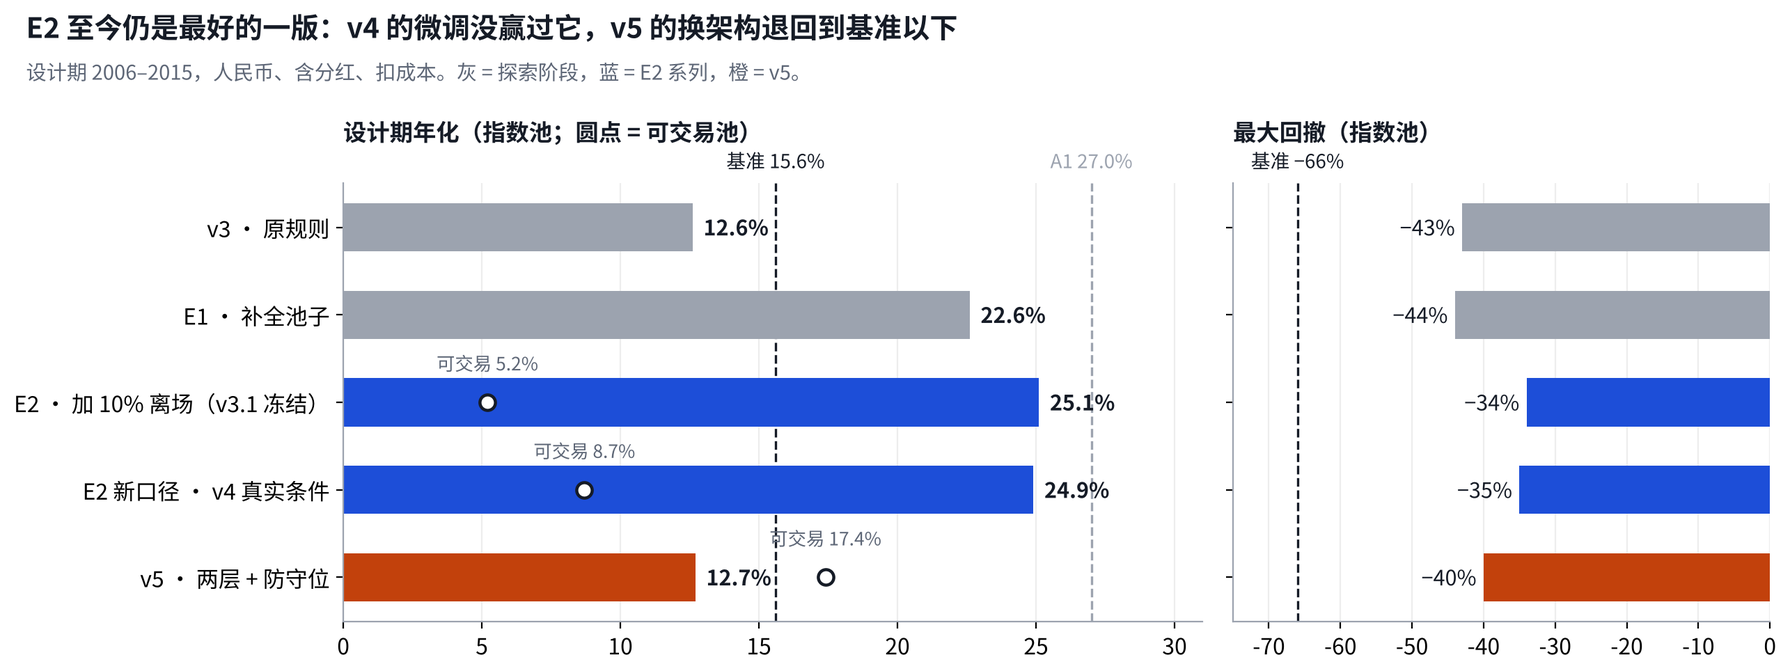
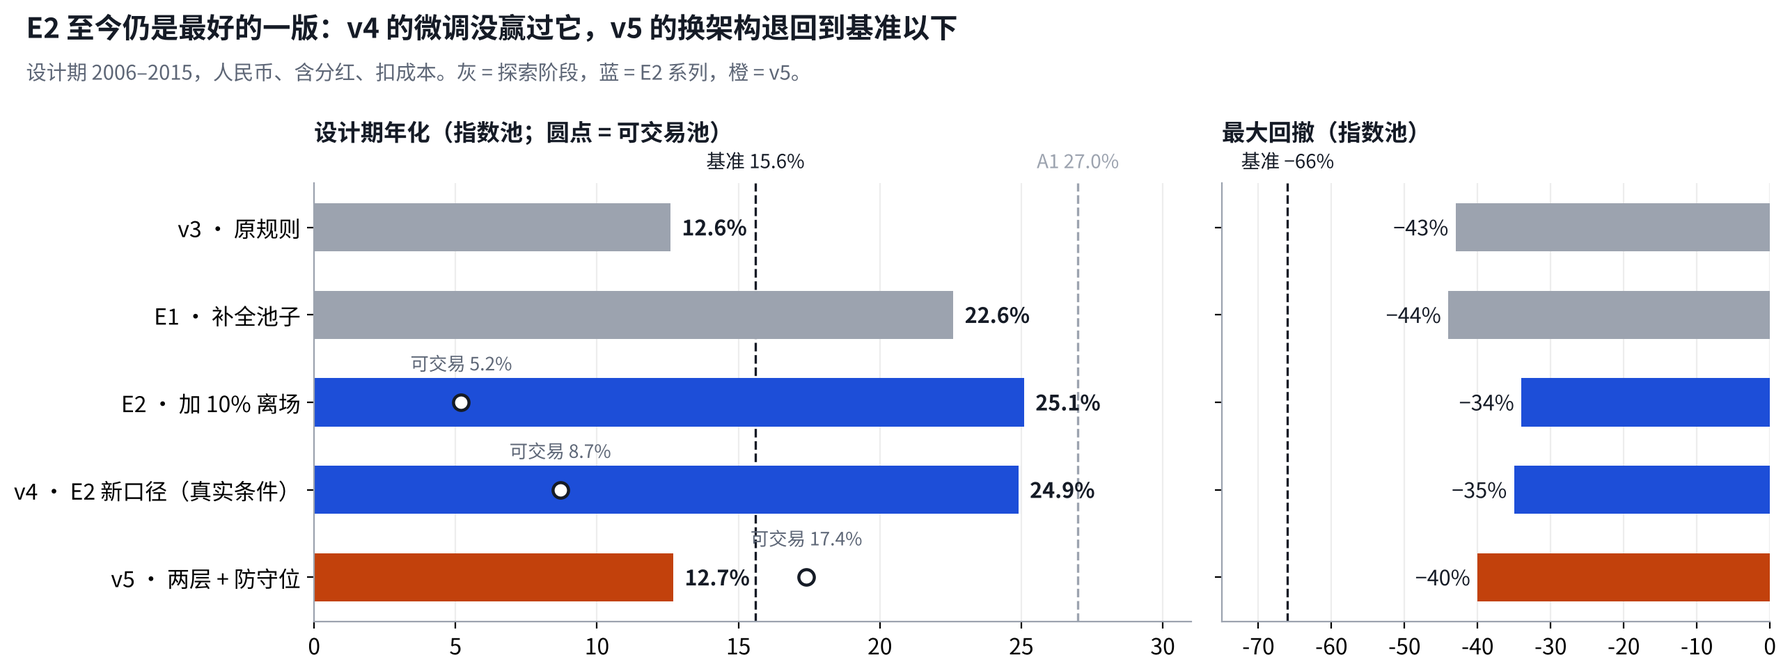
v5 备忘第 10.3 版：四处结构硬伤归因、风险调整后对随机、跑前五问；看板版本表加策略详情、v4 摘要图
- results/v5/diag/memo/flaws.py：把 v5 的每类最强放回全局排名，描述性归因（设计期、指数池，不新增策略）
- m7：按类别分钱 vs 按强弱分钱；b9：v4 换真实条件 + T1–T4 过关格
- 看板第 2 节：表行与图一一对应，E2 规则并入 v3 → E2 折叠

Claude-Session: https://claude.ai/code/session_01PmXaEwvnhMrSzwWPeiEpbL

diff --git a/results/v5/diag/memo/flaws.py b/results/v5/diag/memo/flaws.py
@@ -1,0 +1,88 @@
+"""v5 设计硬伤的描述性诊断（只用设计期 2006–2015 的指数池，不新增策略，不算 2016 年以后的收益）。
+
+每个调仓决策日、每个回看期，把 v5 的“每类最强”放回全局排名里看：
+1. 开着几个风险大类（k），防守位打开过几次；
+2. v5 的每类最强在全部跑赢现金的容器里排第几，有多少仓位落在全局前 5 名以外；
+3. 被选中以后下一个月实际涨了多少（按全局排名分档），检验“每类最强”是不是真的强。
+用法：python results/v5/diag/memo/flaws.py results/v5/diag/memo/flaws
+"""
+import sys, pathlib
+ROOT = pathlib.Path(__file__).resolve().parents[4]; sys.path.insert(0, str(ROOT))
+import pandas as pd, numpy as np
+from src.v3.engine.spec import load_spec
+from src.v3.engine.score import lookback_panel
+from src.v3.engine.sessions import decision_dates
+from src.v4.r5.design import Markets
+from src.v5.campaign import classes_for, class_map
+from src.v5.engine.allocate import sleeves_on, group_weights, _winners
+from src.v5.engine.classes import RISK_CLASSES, DEFENSIVE_CLASSES
+
+out = pathlib.Path(sys.argv[1]); out.mkdir(parents=True, exist_ok=True)
+spec = load_spec(); markets = Markets(spec)
+m = markets.get('index', t4=False, allow_substitute=True)
+cls = classes_for(list(m.names), m.cash_id, class_map())
+cash = m.cash_id
+names = [*list(m.names), cash]
+ret = m.signal
+logret = np.log1p(ret.where(ret > -1).fillna(0.0))
+fwd = np.expm1(logret[::-1].rolling(21, min_periods=1).sum()[::-1].shift(-1))  # 下一个 21 个交易日
+fwd_x = fwd.sub(fwd[cash], axis=0)  # 相对现金
+
+rows, picks = [], []
+for L in spec.lookbacks:
+    p = lookback_panel(ret, cash, L)
+    for day in decision_dates(pd.DatetimeIndex(m.dates), 'month'):
+        t = pd.Timestamp(day).normalize()
+        if t < pd.Timestamp('2006-01-01') or t > pd.Timestamp('2015-12-31') or t not in p.score.index:
+            continue
+        sl = sleeves_on(p, t, names, cls, cash, None)
+        elig = sorted([s for s in sl if s.participates and s.beats_cash and np.isfinite(s.score) or (s.participates and s.beats_cash and np.isinf(s.score))],
+                      key=lambda s: (-s.score, s.container_id))
+        rank = {s.container_id: i + 1 for i, s in enumerate(elig)}
+        risk = _winners(sl, RISK_CLASSES)
+        k = sum(v is not None for v in risk.values())
+        w = group_weights(sl, cash_id=cash)
+        top = elig[0].score if elig else np.nan
+        rows.append(dict(date=t, L=L, k=k, n_elig=len(elig),
+                         cash=w.get(cash, 0.0),
+                         defense=sum(v for c, v in w.items() if c != cash and cls.get(c) in DEFENSIVE_CLASSES)))
+        for c, v in w.items():
+            if c == cash or v == 0:
+                continue
+            picks.append(dict(date=t, L=L, id=c, cls=cls[c], w=v, rank=rank.get(c, np.nan),
+                              rel=(next(s.score for s in sl if s.container_id == c) / top) if top and np.isfinite(top) else np.nan,
+                              fwd=fwd_x.at[t, c] if t in fwd_x.index else np.nan))
+        # E2 式对照：全局前 5、每只 1/5、不足拿现金（只做描述，不是 B0 的完整执行）
+        for s in elig[:5]:
+            picks.append(dict(date=t, L=L, id=s.container_id, cls=cls[s.container_id], w=0.2, rank=rank[s.container_id],
+                              rel=s.score / top, fwd=fwd_x.at[t, s.container_id], arm='E2top5'))
+
+g = pd.DataFrame(rows); pk = pd.DataFrame(picks); pk['arm'] = pk['arm'].fillna('v5')
+g.to_csv(out / 'groups.csv', index=False); pk.to_csv(out / 'picks.csv', index=False)
+
+v5 = pk[pk.arm == 'v5']
+risk5 = v5[v5.cls.isin(RISK_CLASSES)]
+summ = {}
+summ['k 分布（组占比）'] = g.k.value_counts(normalize=True).sort_index().round(3).to_dict()
+summ['k=0 的组占比'] = round((g.k == 0).mean(), 3)
+summ['防守位平均仓位'] = round(g.defense.mean(), 3)
+summ['现金平均仓位'] = round(g.cash.mean(), 3)
+summ['v5 风险仓位里落在全局前5以外的占比'] = round(risk5.loc[risk5['rank'] > 5, 'w'].sum() / risk5.w.sum(), 3)
+summ['v5 风险仓位里落在全局前3以外的占比'] = round(risk5.loc[risk5['rank'] > 3, 'w'].sum() / risk5.w.sum(), 3)
+summ['v5 风险持仓得分/当日最高分（加权中位）'] = round(np.average(risk5.rel.clip(-5, 5), weights=risk5.w), 3)
+bucket = pd.cut(risk5['rank'], [0, 5, 10, 1000], labels=['全局前5', '第6–10', '第11名以后'])
+summ['v5 各档仓位占比'] = risk5.groupby(bucket, observed=False).w.sum().div(risk5.w.sum()).round(3).to_dict()
+summ['v5 各档下月超额（月均，%）'] = (risk5.groupby(bucket, observed=False).apply(lambda d: np.average(d.fwd, weights=d.w) * 100, include_groups=False).round(2).to_dict())
+e2 = pk[pk.arm == 'E2top5']
+summ['E2 前5 下月超额（月均，%）'] = round(e2.fwd.mean() * 100, 2)
+summ['v5 风险持仓下月超额（加权，%）'] = round(np.average(risk5.fwd, weights=risk5.w) * 100, 2)
+by_cls = risk5.groupby('cls').apply(lambda d: pd.Series({
+    '开着的组占比': d[['date', 'L']].drop_duplicates().shape[0] / g.shape[0],
+    '平均仓位(开着时)': d.w.mean(),
+    '全局排名中位': d['rank'].median(),
+    '落在前5以外的比例': (d['rank'] > 5).mean(),
+    '下月超额%': d.fwd.mean() * 100}), include_groups=False).round(3)
+by_cls.to_csv(out / 'by-class.csv')
+import json
+(out / 'summary.json').write_text(json.dumps(summ, ensure_ascii=False, indent=1, default=str))
+print(json.dumps(summ, ensure_ascii=False, indent=1, default=str)); print(by_cls.to_string())

diff --git a/results/v5/diag/board/v4_fold.py b/results/v5/diag/board/v4_fold.py
@@ -1,0 +1,46 @@
+"""Owner 看板 v4 摘要图：v4 做了两件事——换成真实交易条件（E2 → E2 新口径），在它上面试四个各改一处的微调（都没过）。
+数字来自已登记的 results/v4/r5/candidate-gate.csv（指数池）与 v4 体检报告；只读设计期。
+用法：python results/v5/diag/board/v4_fold.py docs/assets/owner-board/b9-v4.png
+"""
+import sys, pathlib
+ROOT = pathlib.Path(__file__).resolve().parents[4]
+import pandas as pd, numpy as np
+import matplotlib; matplotlib.use('Agg')
+import matplotlib.pyplot as plt
+from matplotlib.patches import FancyBboxPatch
+plt.rcParams.update({'font.family': ['Noto Sans CJK SC'], 'axes.unicode_minus': False, 'font.size': 11.5})
+INK, MUTED, GOOD, BAD, BLUE = '#151b26', '#5d6676', '#15803d', '#c2410c', '#1d4ed8'
+g = pd.read_csv(ROOT / 'results/v4/r5/candidate-gate.csv'); g = g[g.pool == 'index'].set_index('arm')
+TARGET = {'T1': ('pp_rebound', '反弹'), 'T2': ('pp_correction', '回调'), 'T3': ('pp_bull', '牛市'), 'T4': ('pp_bull', '牛市')}
+NAME = {'T1': 'T1 转折点换挡', 'T2': 'T2 按市场状态分配速度', 'T3': 'T3 空位当天补', 'T4': 'T4 加美股行业、港股分类'}
+fig = plt.figure(figsize=(13, 5.5))
+ax = fig.add_axes([.04, .08, .30, .66])
+bars = [('E2（v3.1 冻结）\n理想条件', 25.1, '#9ca3af'), ('E2 新口径\n真实条件 · 指数池', 24.9, BLUE), ('E2 新口径\n真实条件 · 可交易池', 8.7, BLUE)]
+for i, (n, v, c) in enumerate(bars):
+    ax.bar(i, v, color=c, width=.62, alpha=1 if i < 2 else .45, zorder=2)
+    ax.text(i, v + .6, f'{v:.1f}%', ha='center', fontsize=12, weight='bold', color=INK)
+ax.axhline(15.6, color=INK, ls='--', lw=1.2); ax.text(2.45, 15.9, '基准 15.6%', ha='right', va='bottom', fontsize=10, color=INK)
+ax.set_xticks(range(3), [b[0] for b in bars], fontsize=10); ax.set_ylim(0, 30); ax.set_ylabel('设计期年化 %', color=MUTED)
+for s in ('top', 'right'): ax.spines[s].set_visible(False)
+ax.grid(axis='y', alpha=.22); ax.set_axisbelow(True)
+ax.set_title('① 换成真实交易条件', loc='left', fontsize=12.5, weight='bold', color=INK, pad=10)
+# 右：四个微调的过关格
+bx = fig.add_axes([.40, .08, .58, .66]); bx.axis('off'); bx.set_xlim(0, 10); bx.set_ylim(0, 5.4)
+bx.set_title('② 在 E2 新口径上各改一处：三条都要过，没有一个过', loc='left', fontsize=12.5, weight='bold', color=INK, pad=10)
+cols = [(3.0, '前五年超额'), (4.75, '后五年超额'), (6.5, '瞄准的行情'), (8.55, '结果')]
+for x, t in cols: bx.text(x, 5.05, t, ha='center', fontsize=10.5, color=MUTED, weight='bold')
+b0 = g.loc['B0']
+for r, t in enumerate(['T1', 'T2', 'T3', 'T4']):
+    y = 4.2 - r * 1.05; row = g.loc[t]
+    bx.text(0.0, y, NAME[t], va='center', fontsize=11, color=INK, weight='bold')
+    d1 = (row.ann_excess_s1 - b0.ann_excess_s1) * 100; d2 = (row.ann_excess_s2 - b0.ann_excess_s2) * 100
+    col, lab = TARGET[t]; d3 = row[col] - b0[col]
+    for x, v, ok, txt in ((3.0, d1, d1 > 0, f'{d1:+.1f}'), (4.75, d2, d2 > 0, f'{d2:+.1f}'), (6.5, d3, d3 > 0, f'{lab} {d3:+.1f}')):
+        bx.add_patch(FancyBboxPatch((x - .78, y - .34), 1.56, .68, boxstyle='round,pad=0.02,rounding_size=0.12',
+                                    fc='#e8f5ed' if ok else '#fdeee6', ec='none'))
+        bx.text(x, y, txt.replace('-', '−'), ha='center', va='center', fontsize=11, weight='bold', color=GOOD if ok else BAD)
+    bx.text(8.55, y, '没过', ha='center', va='center', fontsize=11.5, weight='bold', color=BAD)
+bx.text(0, -.2, '格子是相对 E2 新口径的变化（百分点）：超额是每年多赚几个点；瞄准的行情是该行情所有月份相对基准的超额之和。绿 = 变好，橙 = 变差。', fontsize=9.5, color=MUTED)
+fig.text(.04, .99, 'v4 做了两件事：换成真实条件后，E2 在能排名的池子里几乎不变、在当年真能买到的池子里只剩 8.7%；四个微调都没过关', fontsize=14, weight='bold', color=INK, va='top')
+fig.text(.04, .915, '设计期 2006–2015，人民币、含分红、扣成本。v4 最终版 = E2 新口径（一处都没改）。', fontsize=10.5, color=MUTED, va='top')
+fig.savefig(sys.argv[1], dpi=200, bbox_inches='tight', facecolor='white')

diff --git a/results/v5/diag/memo/charts.py b/results/v5/diag/memo/charts.py
@@ -142,3 +142,32 @@ if RB.exists():
         title(fig, f'随机满仓也有约 {med:.0f}% 的年化，但回撤都超过 −55%；E2 收益更高、回撤少一半',
               '指数池 2006–2015。随机：每月末从当时有数据的风险容器里随机挑 5 只、等权、满仓，不扣成本（对随机更有利）。')
         fig.tight_layout(); fig.savefig(OUT / 'm6-random.png', dpi=200, bbox_inches='tight', facecolor='white'); plt.close(fig)
+
+# m7 设计硬伤：钱按类别分给了谁，它们下个月赚了多少（flaws.py 的输出）
+W = pd.read_csv(D / 'v5/diag/memo/class-weights.csv', index_col=0, parse_dates=True).loc['2006':'2015']
+PK = pd.read_csv(D / 'v5/diag/memo/flaws/picks.csv').dropna(subset=['fwd'])
+cats = [('A 股', ['A股']), ('港股', ['港股']), ('美股', ['美股']), ('国债、黄金', ['国债', '黄金']), ('现金', ['现金'])]
+fig, (ax, bx) = plt.subplots(1, 2, figsize=(13, 4.6), gridspec_kw={'width_ratios': [1.15, 1]})
+y = np.arange(len(cats))
+for off, arm, col in ((-.19, 'E2', COL['E2 新口径']), (.19, 'v5', COL['v5 最终版'])):
+    v = [sum(W[f'{arm}:{c}'].mean() for c in cs) * 100 for _, cs in cats]
+    ax.barh(y + off, v, height=.36, color=col, zorder=2, label='E2 新口径' if arm == 'E2' else 'v5 最终版')
+    for yy, vv in zip(y + off, v): ax.text(vv + .8, yy, f'{vv:.0f}%', va='center', fontsize=10.5, color=col, weight='bold')
+ax.set_yticks(y, [c for c, _ in cats]); ax.invert_yaxis(); ax.set_xlim(0, 60)
+ax.set_title('十年平均仓位（指数池）', loc='left', fontsize=12.5, weight='bold', color=INK)
+ax.legend(frameon=False, loc='lower right', fontsize=10.5)
+r5 = PK[(PK.arm == 'v5') & PK.cls.isin(['A股', '港股', '美股', '商品', '其他海外'])]
+wav = lambda d: np.average(d.fwd, weights=d.w) * 100
+bars = [('E2：每天排名表的前 5 名', PK[PK.arm == 'E2top5'].fwd.mean() * 100, COL['E2 新口径']),
+        ('v5：全部风险持仓', wav(r5), COL['v5 最终版']),
+        ('　其中 A 股那份', wav(r5[r5.cls == 'A股']), '#e8916a'),
+        ('　其中美股那份', wav(r5[r5.cls == '美股']), '#e8916a'),
+        ('　其中港股那份', wav(r5[r5.cls == '港股']), '#e8916a')]
+yb = np.arange(len(bars))
+bx.barh(yb, [b[1] for b in bars], color=[b[2] for b in bars], height=.6, zorder=2)
+for yy, (_, v, c) in zip(yb, bars): bx.text(v + .06, yy, f'{v:.1f}%', va='center', fontsize=10.5, weight='bold', color=INK)
+bx.set_yticks(yb, [b[0] for b in bars]); bx.invert_yaxis(); bx.set_xlim(0, 3.8)
+bx.set_title('被选中后，下个月比现金多赚（月均）', loc='left', fontsize=12.5, weight='bold', color=INK)
+title(fig, 'v5 按“类别”分钱，不按“强弱”分钱：港股、美股拿走一半仓位，下个月只比现金多赚 0.3–0.6%',
+      '设计期 2006–2015，指数池，月度决策日、四个回看期合并统计。右图是挑选当天之后 21 个交易日的收益减现金，不扣成本，只作归因。')
+fig.tight_layout(); fig.savefig(OUT / 'm7-flaws.png', dpi=200, bbox_inches='tight', facecolor='white'); plt.close(fig)

diff --git a/results/v5/diag/board/versions.py b/results/v5/diag/board/versions.py
@@ -11,8 +11,8 @@ INK, MUTED = '#151b26', '#5d6676'
 ROWS = [  # 名称, 指数池年化, 指数池回撤, 可交易池年化, 颜色
     ('v3 · 原规则', 12.6, -43, None, '#9ca3af'),
     ('E1 · 补全池子', 22.6, -44, None, '#9ca3af'),
-    ('E2 · 加 10% 离场（v3.1 冻结）', 25.1, -34, 5.2, '#1d4ed8'),
-    ('E2 新口径 · v4 真实条件', 24.9, -35, 8.7, '#1d4ed8'),
+    ('E2 · 加 10% 离场', 25.1, -34, 5.2, '#1d4ed8'),
+    ('v4 · E2 新口径（真实条件）', 24.9, -35, 8.7, '#1d4ed8'),
     ('v5 · 两层 + 防守位', 12.7, -40, 17.4, '#c2410c'),
 ]
 fig, axs = plt.subplots(1, 2, figsize=(13, 4.2), gridspec_kw={'width_ratios': [1.6, 1]}, sharey=True)

diff --git a/docs/owner/v5-research-memo.md b/docs/owner/v5-research-memo.md
@@ -4,7 +4,7 @@
 
 - Project: ETF_Rotation_Quant
 - Document type: research
-- Status: active（第 10.2 版；设计期已跑完，v5 未入围；待 Reviewer 复算、别的市场检验）
+- Status: active（第 10.3 版；设计期已跑完，v5 未入围；待 Reviewer 复算、别的市场检验）
 - Owner: L. Loric
 - Maintainer: Orchestrator
 - Date: 2026-11-01
@@ -17,7 +17,7 @@
 
 | 现状 | 结论 | 需要你 |
 | --- | --- | --- |
-| **设计期跑完，v5 没有入围。**等 Reviewer 复算、别的市场检验跑完，然后封板（D27）。 | v5 指数池年化 **12.7%**，E2 新口径 **24.9%**。输在规则设计：牛市里分散了仓位，弱市里该防守时没有防守。 | **暂时不需要。**封板前定期望线和以哪个池子为准。 |
+| **设计期跑完，v5 没有入围。**等 Reviewer 复算、别的市场检验跑完，然后封板（D27）。 | v5 指数池年化 **12.7%**，E2 新口径 **24.9%**。输在结构：按类别分钱、不按强弱分钱，违背了“优中选优”；扣掉“押得少”，和随机挑选没有区别。 | **一件要你选**：要不要把“跑前五问”写进项目规矩（第 10 节）。封板前再定期望线和以哪个池子为准。 |
 
 ## 1. v5 是什么：先决定要不要冒险，再决定冒在哪
 
@@ -73,18 +73,18 @@ v5 最终版 = 起点 + 10% 离场。绿、橙相对 E2 新口径。数字待 Re
 - **入围一次性检验的只有 E2 新口径。**按 D27，v5 做完就封板，不论结果。
 - **可交易池的好成绩不改变结论。**它来自早年“能买的只有一两只时集中持有”。2016 年以后能买的品种多了，这个优势会消失；A1 在同样条件下仍高出 6 个百分点。
 
-### 和随机挑比：E2 的价值主要在回撤，v5 连随机都没跑过
+### 和随机挑比：E2 有真本事；v5 只是“少押一点的随机”
 
 ![E2、v5、基准、A1 与 2000 次随机挑选的年化和回撤](../assets/v5-memo/m6-random.png)
 
-| 指数池 2006–2015 | 年化 | 最大回撤 | 在 2000 次随机里的位置 |
-| --- | --- | --- | --- |
-| **随机挑 5 只、满仓**（中位数） | 20.1% | −67% | — |
-| **E2 新口径** | 24.9% | **−35%** | 年化高于 96% 的随机；回撤浅于全部随机 |
-| **v5 最终版** | **12.7%** | −40% | 年化**低于全部**随机；回撤浅于全部随机 |
-| **基准** | 15.6% | −66% | 年化高于 4% 的随机 |
+| 指数池 2006–2015 | 年化 | 最大回撤 | 年化 ÷ 回撤 | 在 2000 次随机里的位置 |
+| --- | --- | --- | --- | --- |
+| **随机挑 5 只、满仓**（中位数） | 20.1% | −67% | 0.30 | — |
+| **E2 新口径** | 24.9% | **−35%** | **0.71** | 年化高于 96% 的随机；年化 ÷ 回撤**高于全部**随机 |
+| **v5 最终版** | **12.7%** | −40% | **0.32** | 年化低于全部随机；年化 ÷ 回撤和随机的中位数差不多（高于 62%）：**没有挑选本事** |
+| **基准** | 15.6% | −66% | 0.24 | 年化高于 4% 的随机 |
 
-随机对照：每月末从当时有数据的风险容器（A 股、港股、美股等）里随机挑 5 只、等权、满仓持有一个月，重复 2000 次，不扣成本。它回答“完全不用判断，只靠这个池子能拿到多少”。设计期池子以 A 股为主，又碰上 2006–07 年大牛市，所以随机满仓也有 20%；但它扛满了 2008 年的下跌。E2 比随机多赚约 5 个点，更重要的是回撤少了一半；v5 回撤也浅，但是用少赚换来的，十年下来比任何一次随机都少。脚本 results/v5/diag/memo/random_baseline.py；这是对照，不是策略候选。
+随机对照：每月末从当时有数据的风险容器（A 股、港股、美股等）里随机挑 5 只、等权、满仓持有一个月，重复 2000 次，不扣成本。它回答“完全不用判断，只靠这个池子能拿到多少”。设计期池子以 A 股为主，又碰上 2006–07 年大牛市，所以随机满仓也有 20%；但它扛满了 2008 年的下跌。**年化 ÷ 回撤**是每承受 1 份回撤换来多少年化，用来比较押得多和押得少的策略。E2 比随机多赚约 5 个点、回撤少一半，这个比值高于全部 2000 次随机，说明它的挑选有真本事。v5 回撤浅只是因为押得少，比值和随机的中位数差不多：去掉“少押”这层，它和闭眼挑没有区别。一个策略先要赢过随机，才谈得上和基准比；v5 在第一关就没过。脚本 results/v5/diag/memo/random_baseline.py；这是对照，不是策略候选。
 
 ## 3. 设计依据：v4 的证据，和两条推错的推论
 
@@ -163,9 +163,39 @@ v5 最终版 = 起点 + 10% 离场。绿、橙相对 E2 新口径。数字待 Re
 - **熊市**：E2 +95，v5 +65。v5 本来就是为“不输”设计的，结果熊市里反而躲得更少。
 - **反弹**：v5 少输 15。这是 v5 唯一占优的行情，因为它弱市里仍在场内。
 
-## 7. 为什么输：两处都是我设计的规则，不是程序错误
+## 7. 为什么输：四处结构硬伤，都违背了“优中选优”
 
-> **把两种策略每天的实际持仓按大类摊开看，原因一目了然。**
+> **v5 按“类别”分钱，不按“强弱”分钱：三成风险仓位给了当天全局排名前 5 以外的品种。这是结构问题，换什么参数都改不掉。**
+
+![E2 和 v5 十年平均仓位按大类对比，以及被选中后下个月相对现金的收益](../assets/v5-memo/m7-flaws.png)
+
+愿景里“选强势、跑赢现金才买”的潜台词是**优中选优**：先在所有品种里比，钱只给最强的。v5 改成了“每类里选优”：每个大类先出一个代表，再平分。一类整体不强，只要有一只勉强跑赢现金，它的代表就和全场最强的那只拿一样多的钱。下面四处硬伤都从这里来。
+
+| 硬伤 | 规则怎么写的 | 错在哪 | 设计期的数据 | 本该怎么做 |
+| --- | --- | --- | --- | --- |
+| **① 挑选放错了层** | 先分五类，每类只挑最强的一只 | 强弱差别主要在**不同市场之间**；同一类的容器同涨同跌，类内挑谁差别很小。v5 留下了弱的“类内挑选”，把强的“跨类挑选”换成了平分 | 港股那份在全局排名中位**第 10**，68% 不在前 5；下个月只比现金多赚 **0.4%**，A 股那份 **2.4%** | 一张全局排名表；类别只做上限（例如每类最多 2 只），不做配额 |
+| **② 门槛最松，仓位一样** | 类里**任一只**跑赢现金，这类就开；开着的类平分 | “任一只”是最松的门槛，成员越多越容易开。跑赢现金 0.1% 和 80% 拿一样的份额：强弱只用来开门，不用来分钱 | 风险持仓的得分只有当天最高分的 **54%**（中位）；**32%** 的风险仓位在全局前 5 以外 | 门槛 = 跑赢现金**且**进全局前 N；或仓位随得分递增 |
+| **③ 防守是开关，不是竞争** | 风险大类**全部**关掉，才用国债、黄金 | 门槛太松，“全部关掉”很少发生。E2 让国债黄金和股票同场排名，股票一弱防守就逐步排进来，这正是 E2 回撤减半的来源；v5 把它拆掉了 | 只有 **10%** 的时间触发；防守加现金平均 **13%**，E2 是 **34%**；“去掉防守位”的检验几乎没变化 | 防守资产留在同一张排名表里，随时可以排到前面 |
+| **④ 五类其实只有三类** | A 股、港股、美股、其他海外、商品 | 设计期里“其他海外”一次没开过，商品只占 0.2%。实际就是“A 股、港股、美股各三分之一”加开关。A 股和港股都是中国风险，2008 年一起跌，分散只是表面上的 | v5 平均给港股 **21%**，E2 只给 4% | 定类别前先看设计期里“真正有数据、有独立走势”的类别有几个 |
+
+统计口径：设计期 2006–2015、指数池，每个月度决策日的四个回看期合并；“全局排名”= 当天所有跑赢现金的容器按同一个得分排。下个月收益是挑选后 21 个交易日减现金，不扣成本，只作归因，不是新策略的回测。A 股在这十年特别强，所以硬伤 ① 的代价格外大；换个年代代价会小，但方向不变：按身份分钱，就会在某个市场独强时少拿。脚本 results/v5/diag/memo/flaws.py。
+
+### 比四条规则更根本的：研究流程上的三处错
+
+| 病因和处方没对上 | 反面证据被我解释掉了 | 只设了结果门，没做愿景检查 |
+| --- | --- | --- |
+| v4 暴露的是“可交易池太小，空位拿现金代价大”，这是池子和执行的问题。v5 开的方子却改了整个组合结构，把本来没问题的指数池一起改坏了。 | 探索期“填满空位更差”已经说明强制持有伤收益。我当时用“v5 只在跑赢现金的大类之间集中”解释掉它；硬伤 ② 说明这层保护太松，等于没有。 | 预注册把过关条件写得很严，但跑之前没人问一句：这条规则会不会把钱给不够强的东西？四处硬伤都能在纸面上看出来，不需要跑回测。 |
+
+以后每个版本跑之前，先过这五问（建议成为预注册的固定一节）
+
+1. **钱是否跟着强弱走？**有没有可能让一个弱品种拿到和最强一样多的钱？
+2. **挑选发生在哪一层？**那一层的品种之间差别大不大，独立选择有几个？
+3. **防守是一直在竞争，还是到极端才打开？**
+4. **每个类别、每个开关，在设计期里实际触发过几次？**从没触发的就是空壳。
+5. **同结构去掉信号还剩多少？**先和随机挑选比，再和基准比。
+
+<details>
+<summary>逐年看：牛市分散了、弱市没防守（持仓图和年份表）</summary>
 
 ![E2 新口径和 v5 每月平均持仓，按大类](../assets/v5-memo/m4-holdings.png)
 
@@ -179,7 +209,9 @@ v5 最终版 = 起点 + 10% 离场。绿、橙相对 E2 新口径。数字待 Re
 - 原因一：牛市里平分了仓位 “跑赢现金的大类平分”，2006–07 年港股、美股也在涨，A 股只分到四成。E2 是一张排名表，A 股的十几个容器挤满了前几名，几乎满仓 A 股，这十年最大的一段行情它吃满了。
 - 原因二：防守的门槛太高 v5 只有在五个风险大类**全部**不跑赢现金时才放国债、黄金。五类里总有一类短期在涨，于是弱市里 v5 几乎一直满仓风险资产，只剩一类时还全押在它身上。E2 让国债、黄金和股票同场排名，股票一弱，国债就自然排进前几名。
 
-两条都对应着第 3 节里推错的推论：“按大类分开判断”丢掉了 A 股在牛市里的集中；“设一个防守位”反而把防守从排名里拿了出来。v4 时“填满空位更差”的反面证据，说的正是第二条。持仓数字来自对已登记两个配置的复跑，复跑净值与登记逐日一致；脚本 results/v5/diag/memo/。
+持仓数字来自对已登记两个配置的复跑，复跑净值与登记逐日一致；脚本 results/v5/diag/memo/holdings.py。
+
+</details>
 
 ## 8. 跑前预判对照：猜对三条，猜错三条
 
@@ -194,7 +226,7 @@ v5 最终版 = 起点 + 10% 离场。绿、橙相对 E2 新口径。数字待 Re
 | **2015 急跌** | 相近 | 全年 +4% 对 +15% | **猜错** |
 | **可交易池** | 明显更好 | 17.4% 对 8.7% | **猜对** |
 
-猜错的三条都是同一个原因：防守门槛太高，下跌市里 v5 留在场内。这是理解错了，不是代码错了。
+猜错的三条都是同一个原因：防守是开关不是竞争（第 7 节硬伤 ③），下跌市里 v5 留在场内。这是设计错了，不是代码错了。
 
 ## 9. 稳健性：结论不靠运气和参数；唯一明显的改善指向“集中”
 
@@ -211,7 +243,7 @@ v5 最终版 = 起点 + 10% 离场。绿、橙相对 E2 新口径。数字待 Re
 | **固定预算（A2 式）** | 平分给“跑赢的”是不是不如每类固定一份 | 五类各 1/5，没跑赢的那份放防守 | 0 / +1.2 |
 | **只持最强的一类（A1 式）** | 平分是不是比集中更差 | 每个回看期只持最强的那一个大类 | **+11.4 / +7.7** |
 
-指数池，数字是相对 v5 最终版的年化超额变化（百分点）。按预注册只报告、不改判，也不能拿来替换 v5。“不设防守位”几乎没有影响，正好印证了第 7 节：防守位门槛太高，十年里很少真正打开。
+指数池，数字是相对 v5 最终版的年化超额变化（百分点）。按预注册只报告、不改判，也不能拿来替换 v5。“不设防守位”几乎没有影响，正好印证了第 7 节硬伤 ③：防守位十年里只在 10% 的时间打开。
 
 ![稳健性和结构对照：相对 v5 最终版的变化](../assets/v5-memo/m5-robust.png)
 
@@ -230,6 +262,14 @@ v5 最终版 = 起点 + 10% 离场。绿、橙相对 E2 新口径。数字待 Re
 2. **别的市场**：美国上市 ETF，2003–2026，跑一次。看 E2 那套规则在别处站不站得住。
 3. **封板**：你定期望线和以哪个池子为准；入围名单写死。
 4. **一次性检验**：E2 新口径跑 2016 年以后，只跑一次。
+#### 要你选：要不要把“跑前五问”写进项目规矩
+
+| 选项 | 说明 |  |
+| --- | --- | --- |
+| 写进 AGENTS.md 和预注册模板**推荐** | 每个版本的预注册加一节“设计评审”，逐条回答第 7 节的五问，并附“去掉信号的同结构”和随机对照；Reviewer 冻结前核对。代价：每版多半天工作，不影响 v5 和封板进度。 | ⭐ 建议 |
+| 只作为本备忘的教训 | 不改规矩，留给 v6 时再说。代价：靠记忆执行，容易丢。 |  |
+
+**发生了什么**：v5 的四处硬伤在纸面上就能看出来，但预注册只检查结果，不检查规则是否符合愿景。**影响**：不改，下一版仍可能把同类错误带进回测，白白用掉一次尝试次数。
 <details>
 <summary>参考：封板规矩（D20、D27）、急跌和期权、结论报告的六项</summary>
 
